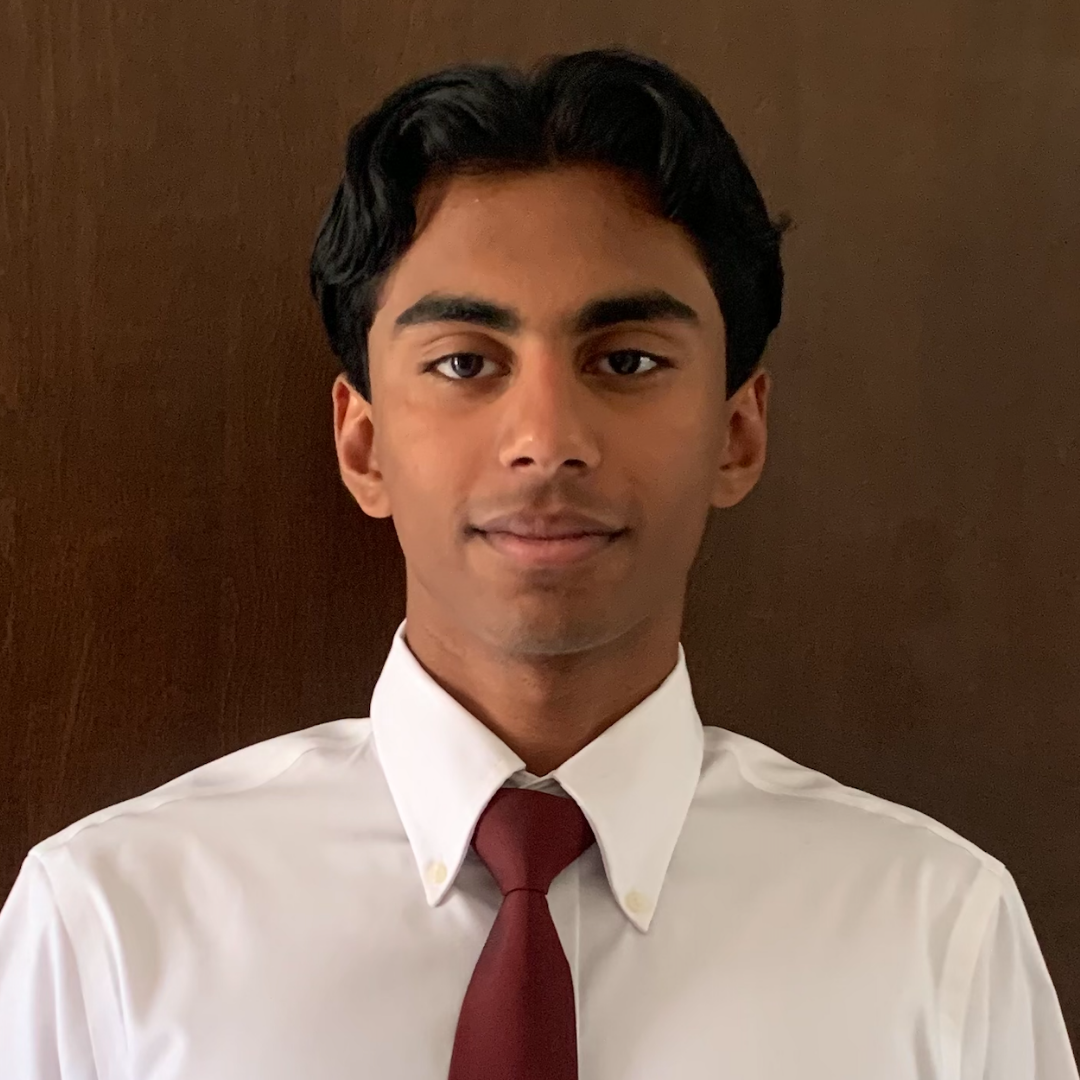
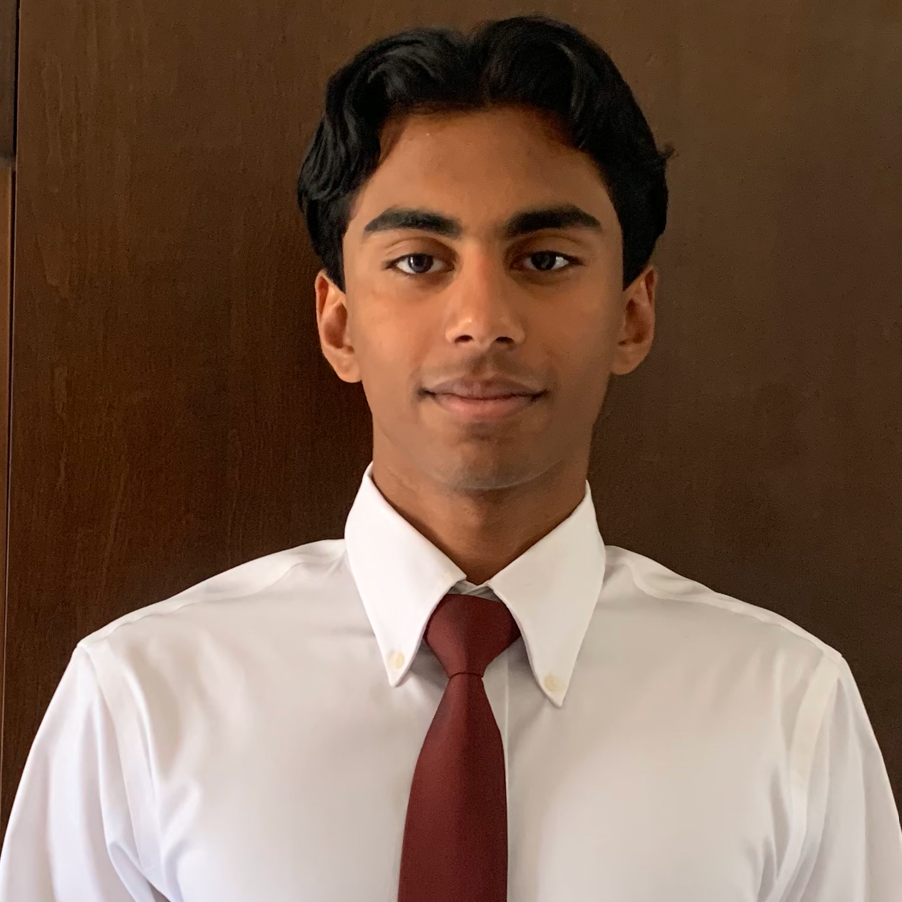
feat: update board members

Changed region(s): [[0.0, 0.0, 1.0, 1.0], [0.8381, 0.8381, 0.9313, 1.0], [0.6208, 0.9002, 0.6519, 0.9313]]

diff --git a/pages/about.jsx b/pages/about.jsx
@@ -1,29 +1,30 @@
 import Head from "next/head";
 import styled from "styled-components";
 
-import Lucy from "../public/members/lucy-zhao.png";
-import Asma from "../public/members/asma-khamis.png";
-import Shiro from "../public/members/shiro-puwa.png";
-import RachelLin from "../public/members/rachel-lin.png";
-import Ellie from "../public/members/ellie-tiliakou.png";
-import Angela from "../public/members/angela-yang.png";
-import Richard from "../public/members/richard-xi.png";
-import Dhruv from "../public/members/dhruv-dhall.png";
-import Helen from "../public/members/helen-yin.png";
-import Kaya from "../public/members/kaya-januszewska.png";
-import Andreea from "../public/members/andreea-murariu.png";
-import Aneeya from "../public/members/aneeya-johal.png";
-import MarkShort from "../public/members/mark-short.png";
-import Catherine from "../public/members/catherine-jiang.png";
-import Brooklyn from "../public/members/brooklyn-wiggins.png";
-import YiAn from "../public/members/yi-an-wang.png";
-import Camille from "../public/members/camille-eamon.png";
-import Ashley from "../public/members/ashley-lam.png";
-import Joshua from "../public/members/joshua-cheruvathur.png";
-import Bryan from "../public/members/bryan-liu.png";
-import Emily from "../public/members/emily-hu.png";
 import AboutUs from "../public/about/AboutUs-Top.png";
 import ImpactReport from "../public/about/impact-report.svg";
+import Shirothie from "../public/members/Shirothie-Puwaneswaran.png"
+import Bryan from "../public/members/Bryan-Liu.jpg"
+import Selim from "../public/members/Selim-Choi.png"
+import Joshua from "../public/members/Joshua-Cheruvathur.png"
+import Catherine from "../public/members/Catherine-Jiang.png"
+import Nihal from "../public/members/Nihal-Yapici.png"
+import Vasharna from "../public/members/Vasharna-Thangavel.png"
+import Stephanie from "../public/members/Stephanie-Murariu.jpg"
+import Victoria from "../public/members/Victoria-Yu.jpg"
+import Phoebe from "../public/members/Phoebe-Yu.jpg"
+import Vivian from "../public/members/Vivian-Song.png"
+import Daniel from "../public/members/Daniel-Zhang.png"
+import Anushka from "../public/members/Anushka-Dsouza.png"
+import Max from "../public/members/Max-Li.png"
+import Rhienna from "../public/members/Rhienna-Patel.png"
+import Amaan from "../public/members/Amaan-Khera.png"
+import Williams from "../public/members/Williams-Thottungal.png"
+import Adam from "../public/members/Adam-Yeh.png"
+import Kathy from "../public/members/Kathy-Tong.jpg"
+import Isabella from "../public/members/Isabella-Quartly.jpg"
+import Orchee from "../public/members/Orchee-Haque.png"
+import Default from "../public/members/card-fill.png"
 
 import { Title, LeftImageTextLayout, SectionWrapper } from "../components";
 import { PageLayout } from "../sections/hoc";
@@ -32,134 +33,146 @@ import { baseTheme } from "../theme";
 
 const nationalBoard = [
   {
-    name: "Lucy Zhao",
-    avatar: Lucy,
-    position: "Founder & President",
+    name: "Shirothie Puwaneswaran",
+    avatar: Shirothie,
+    position: "President",
     cardHeight: 370,
+    imageWidth: 250
   },
   {
-    name: "Asma Khamis",
-    avatar: Asma,
-    position: "VP of Community",
+    name: "Bryan Liu",
+    avatar: Bryan,
+    position: "VP Project Development",
     cardHeight: 370,
+    imageWidth: 205,
     fontColor: baseTheme.colors.yellow,
   },
   {
-    name: "Shiro Puwa",
-    avatar: Shiro,
-    position: "VP of National Operations",
+    name: "Selim Choi",
+    avatar: Selim,
+    position: "VP Project Development",
     cardHeight: 370,
+    imageWidth: 250,
     fontColor: baseTheme.colors.brightBlue,
   },
   {
-    name: "Rachel Lin",
-    avatar: RachelLin,
-    position: "VP of Promotions",
+    name: "Joshua Cheruvathur",
+    avatar: Joshua,
+    position: "VP of Eastern Regional Operations",
     cardHeight: 370,
     fontColor: baseTheme.colors.turquoise,
   },
   {
-    name: "Ellie Tiliakou",
-    avatar: Ellie,
-    position: "VP of Regional Operations",
+    name: "Catherine Jiang",
+    avatar: Catherine,
+    position: "VP of Western Regional Operations",
+    imageWidth: 240,
     cardHeight: 370,
   },
   {
-    name: "Richard Xi",
-    avatar: Richard,
-    position: "VP of Regional Operations",
+    name: "Nihal Yapici",
+    avatar: Nihal,
+    position: "VP Community",
     cardHeight: 370,
+    imageWidth: 240,
     fontColor: baseTheme.colors.yellow,
-  },
-  {
-    name: "Angela Yang",
-    avatar: Angela,
-    position: "VP of Corporate Affairs",
-    cardHeight: 370,
-    fontColor: baseTheme.colors.brightBlue,
   },
 ];
 
 const torontoBoard = [
   {
-    name: "Dhruv Dhall",
-    avatar: Dhruv,
+    name: "Vasharna Thangavel",
+    avatar: Vasharna,
     position: "President",
     cardHeight: 370,
   },
   {
-    name: "Helen Yin",
-    avatar: Helen,
-    position: "VP of Internal Affairs",
+    name: "Stephanie Murariu",
+    avatar: Stephanie,
+    position: "VP of Logistics",
     cardHeight: 370,
     fontColor: baseTheme.colors.brightBlue,
   },
   {
-    name: "Andreea Murariu",
-    avatar: Andreea,
-    position: "VP of External Affairs",
+    name: "Victoria Yu",
+    avatar: Victoria,
+    position: "VP of Finance",
     cardHeight: 370,
     fontColor: baseTheme.colors.yellow,
   },
   {
-    name: "Emily Hu",
-    avatar: Emily,
-    position: "Secretary",
+    name: "Phoebe Yu",
+    avatar: Phoebe,
+    position: "VP of Public Relations",
     cardHeight: 370,
     fontColor: baseTheme.colors.turquoise,
+  },
+  {
+    name: "Vivian Song",
+    avatar: Vivian,
+    position: "VP of Public Relations",
+    cardHeight: 370,
   },
 ];
 
 const vancouverBoard = [
   {
-    name: "Aneeya Johal",
-    avatar: Aneeya,
+    name: "Daniel Zhang",
+    avatar: Daniel,
     position: "President",
     cardHeight: 370,
   },
   {
-    name: "Kaya Januszewska",
-    avatar: Kaya,
-    position: "VP of External Affairs",
+    name: "Anushka Dsouza",
+    avatar: Anushka,
+    position: "VP of Logistics",
     cardHeight: 370,
+    imageWidth: 210,
     fontColor: baseTheme.colors.gold,
   },
   {
-    name: "Mark Short",
-    avatar: MarkShort,
-    position: "VP of Internal Affairs",
+    name: "Max Li",
+    avatar: Max,
+    position: "VP of Finance",
     cardHeight: 370,
     fontColor: baseTheme.colors.brightBlue,
   },
   {
-    name: "Catherine Jiang",
-    avatar: Catherine,
-    position: "Secretary",
+    name: "Rhienna Patel",
+    avatar: Rhienna,
+    position: "VP of Public Relations",
     cardHeight: 370,
     fontColor: baseTheme.colors.turquoise,
+  },
+  {
+    name: "Amaan Khera",
+    avatar: Amaan,
+    position: "VP of Public Relations",
+    cardHeight: 370,
+    imageWidth: 240,
   },
 ];
 
 const calgaryBoard = [
   {
-    name: "Brooklyn Wiggins",
-    avatar: Brooklyn,
+    name: "Williams Thottungal",
+    avatar: Williams,
     position: "President",
-    imageWidth: 240,
-    imageHeight: 220,
+    imageWidth: 220,
     cardHeight: 370,
   },
   {
-    name: "Yi An (Annie) Wang",
-    avatar: YiAn,
-    position: "VP of External Affairs",
+    name: "Adam Yeh",
+    avatar: Adam,
+    position: "VP of Finance",
     cardHeight: 370,
+    imageWidth: 250,
     fontColor: baseTheme.colors.gold,
   },
   {
-    name: "Camille Eamon",
-    avatar: Camille,
-    position: "VP of Internal Affairs",
+    name: "Kathy Tong",
+    avatar: Kathy,
+    position: "VP of Public Relations",
     cardHeight: 370,
     fontColor: baseTheme.colors.brightBlue,
   },
@@ -167,21 +180,22 @@ const calgaryBoard = [
 
 const ottawaBoard = [
   {
-    name: "Joshua Cheruvathur",
-    avatar: Joshua,
-    position: "Senior Board",
+    name: "Isabella Quartly",
+    avatar: Isabella,
+    position: "President",
     cardHeight: 370,
     fontColor: baseTheme.colors.brightBlue,
   },
   {
-    name: "Ashley Lam",
-    avatar: Ashley,
+    name: "Orchee Haque",
+    avatar: Orchee,
     position: "VP of Internal Affairs",
     cardHeight: 370,
+    imageWidth: 240,
   },
   {
-    name: "Bryan Liu",
-    avatar: Bryan,
+    name: "Kausar Virji",
+    avatar: Default,
     position: "VP of External Affairs",
     cardHeight: 370,
     fontColor: baseTheme.colors.gold,
